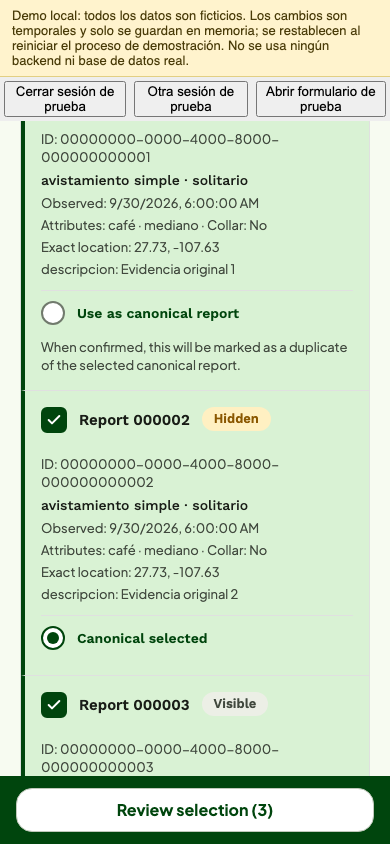
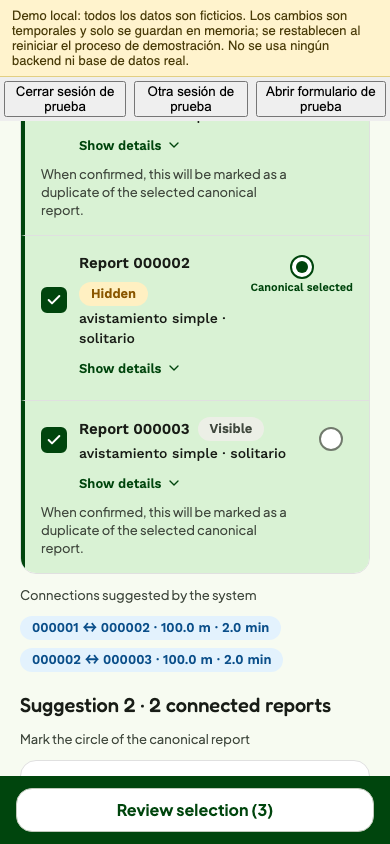
style(design): TD-134 Duplicados más compacto: filas horizontales y detalles plegados
Radio de canónico a la derecha, fecha, perro, ID y ubicación tras Ver detalles (siguen en el DOM). Llaves duplicates.canonicalLegend, showDetails y hideDetails en es y en.

Changed region(s): [[0.0308, 0.154, 0.9538, 0.9242], [0.6462, 0.2773, 0.8923, 0.3697], [0.8, 0.4929, 0.8923, 0.5545]]

diff --git a/screens/DuplicateManagementScreen.js b/screens/DuplicateManagementScreen.js
@@ -15,28 +15,38 @@ import { colors, fontFamily, layout, radius, spacing, type } from '../theme/inde
 const short=(id)=>id.slice(-6);
 /** Translates a validation error (`{key, values}`) or returns a string error as is. */
 const errorText=(error,t)=>typeof error==='string'?error:error?t(`duplicates.validation.${error.key}`,error.values):'';
-/** Candidate report as a list row with a selection checkbox and a canonical radio option. */
+/** Candidate report as a compact row: checkbox and summary on the left, canonical radio on the right, details folded. */
 function ReportRow({report,selected,canonical,disabled,onToggle,onCanonical,t,last}) {
+  const [open,setOpen]=useState(false);
   const label=t('duplicates.report',{id:short(report.id)});
-  return <View style={[styles.row,!last&&styles.rowDivider,selected&&styles.rowSelected]}>
-    <Pressable testID={`duplicate-select-${report.id}`} accessibilityRole="checkbox" accessibilityLabel={t('duplicates.select',{report:label})}
-      aria-checked={selected} accessibilityState={{checked:selected,disabled}} disabled={disabled} onPress={onToggle} style={styles.selection}>
-      <View style={[styles.box,selected&&styles.boxOn]}>{selected?<Icon name="check" size={16} color={colors.onPrimary} strokeWidth={3}/>:null}</View>
-      <Text style={styles.label}>{label}</Text>
-      <Chip label={t(`moderation.status.${report.status}`)} tone={report.status==='hidden'?'warning':'neutral'}/>
-    </Pressable>
-    <Text selectable style={styles.caption}>ID: {report.id}</Text>
-    <Text style={styles.kind}>{[report.incident_type,report.sighting_type].filter(Boolean).map((value)=>value.replaceAll('_',' ')).join(' · ')}</Text>
-    {report.client_created_at ? <Text style={styles.caption}>{t('duplicates.observed')}: {new Date(report.client_created_at).toLocaleString()}</Text> : null}
-    {report.dog ? <Text style={styles.caption}>{t('duplicates.dog')}: {[report.dog.predominant_color,report.dog.size].filter(Boolean).join(' · ')}{typeof report.dog.has_collar==='boolean'?` · ${t('duplicates.collar')}: ${t(report.dog.has_collar?'common.yes':'common.no')}`:''}</Text> : null}
-    {report.location ? <Text selectable style={styles.caption}>{t('moderation.exactLocation')}: {report.location.latitude}, {report.location.longitude}</Text> : null}
-    {report.details ? Object.entries(report.details).map(([key,value])=><Text key={key} style={styles.caption}>{key.replaceAll('_',' ')}: {typeof value==='object'?JSON.stringify(value):String(value)}</Text>) : null}
+  const summary=[report.incident_type,report.sighting_type].filter(Boolean).map((value)=>value.replaceAll('_',' ')).join(' · ');
+  return <View style={[styles.row,styles.rowFlex,!last&&styles.rowDivider,selected&&styles.rowSelected]}>
+    <View style={styles.rowMain}>
+      <Pressable testID={`duplicate-select-${report.id}`} accessibilityRole="checkbox" accessibilityLabel={t('duplicates.select',{report:label})}
+        aria-checked={selected} accessibilityState={{checked:selected,disabled}} disabled={disabled} onPress={onToggle} style={styles.selection}>
+        <View style={[styles.box,selected&&styles.boxOn]}>{selected?<Icon name="check" size={16} color={colors.onPrimary} strokeWidth={3}/>:null}</View>
+        <View style={styles.selectionText}>
+          <View style={styles.titleLine}><Text style={styles.label}>{label}</Text><Chip label={t(`moderation.status.${report.status}`)} tone={report.status==='hidden'?'warning':'neutral'}/></View>
+          {summary?<Text style={styles.kind}>{summary}</Text>:null}
+        </View>
+      </Pressable>
+      <Pressable accessibilityRole="button" accessibilityState={{expanded:open}} onPress={()=>setOpen((value)=>!value)} hitSlop={6} style={styles.detailToggle}>
+        <Text style={styles.detailToggleText}>{t(open?'duplicates.hideDetails':'duplicates.showDetails')}</Text><Icon name="down" size={16} color={colors.primary}/>
+      </Pressable>
+      <View style={[styles.details,!open&&styles.hidden]}>
+        <Text selectable style={styles.caption}>ID: {report.id}</Text>
+        {report.client_created_at?<Text style={styles.caption}>{t('duplicates.observed')}: {new Date(report.client_created_at).toLocaleString()}</Text>:null}
+        {report.dog?<Text style={styles.caption}>{t('duplicates.dog')}: {[report.dog.predominant_color,report.dog.size].filter(Boolean).join(' · ')}{typeof report.dog.has_collar==='boolean'?` · ${t('duplicates.collar')}: ${t(report.dog.has_collar?'common.yes':'common.no')}`:''}</Text>:null}
+        {report.location?<Text selectable style={styles.caption}>{t('moderation.exactLocation')}: {report.location.latitude}, {report.location.longitude}</Text>:null}
+        {report.details?Object.entries(report.details).map(([key,value])=><Text key={key} style={styles.caption}>{key.replaceAll('_',' ')}: {typeof value==='object'?JSON.stringify(value):String(value)}</Text>):null}
+      </View>
+      {selected&&!canonical?<Text style={styles.caption}>{t('duplicates.willBeDuplicate')}</Text>:null}
+    </View>
     <Pressable testID={`duplicate-canonical-${report.id}`} accessibilityRole="radio" accessibilityLabel={t('duplicates.chooseCanonical',{report:label})}
-      aria-checked={canonical} accessibilityState={{checked:canonical,disabled:disabled||!selected}} disabled={disabled||!selected} onPress={onCanonical} style={[styles.canonical,(!selected||disabled)&&styles.dim]}>
+      aria-checked={canonical} accessibilityState={{checked:canonical,disabled:disabled||!selected}} disabled={disabled||!selected} onPress={onCanonical} hitSlop={4} style={[styles.canonicalHit,(!selected||disabled)&&styles.dim]}>
       <View style={[styles.radio,canonical&&styles.radioOn]}>{canonical?<View style={styles.radioDot}/>:null}</View>
-      <Text style={styles.canonicalText}>{t(canonical?'duplicates.canonicalChosen':'duplicates.canonicalOption')}</Text>
+      {canonical?<Text style={styles.canonicalText}>{t('duplicates.canonicalChosen')}</Text>:null}
     </Pressable>
-    {selected&&!canonical ? <Text style={styles.caption}>{t('duplicates.willBeDuplicate')}</Text> : null}
   </View>;
 }
 function Note({value,onChange,label,error,disabled,t,inputRef,testID,tone}) {
@@ -116,6 +126,7 @@ export default function DuplicateManagementScreen({accessToken,onBack,api}) {
             {!form.components.length?<Text style={styles.bodyText}>{t('duplicates.empty')}</Text>:null}
             {form.components.map((component,index)=><View key={component.id} style={styles.group}>
               <Text accessibilityRole="header" style={styles.groupTitle}>{t('duplicates.component',{number:index+1,count:component.reports.length})}</Text>
+              <Text style={styles.caption}>{t('duplicates.canonicalLegend')}</Text>
               <View style={styles.list}>{component.reports.map((report,i)=><ReportRow key={report.id} report={report} selected={form.ids.includes(report.id)} canonical={form.canonicalId===report.id}
                 disabled={disabled} onToggle={()=>form.toggleReport(report.id)} onCanonical={()=>form.chooseCanonical(report.id)} t={t} last={i===component.reports.length-1}/>)}</View>
               <Text style={styles.caption}>{t('duplicates.links')}</Text>
@@ -192,9 +203,12 @@ const styles=StyleSheet.create({
   box:{width:26,height:26,borderRadius:6,borderWidth:2,borderColor:colors.outline,backgroundColor:colors.surface,alignItems:'center',justifyContent:'center'},boxOn:{backgroundColor:colors.primary,borderColor:colors.primary},
   label:{fontFamily:fontFamily.label,fontSize:15,lineHeight:22,color:colors.ink,flexShrink:1},kind:{fontFamily:fontFamily.labelMedium,fontSize:14,lineHeight:20,color:colors.ink},
   caption:{...type.caption,color:colors.inkMuted},bodyText:{...type.body,fontSize:15,lineHeight:22,color:colors.inkMuted},
-  canonical:{flexDirection:'row',alignItems:'center',gap:spacing.md,minHeight:layout.minTouch,borderTopWidth:1,borderTopColor:colors.border,marginTop:spacing.sm},
+  rowFlex:{flexDirection:'row',alignItems:'flex-start',gap:spacing.md},rowMain:{flex:1,gap:spacing.xs},selectionText:{flex:1,gap:2},titleLine:{flexDirection:'row',alignItems:'center',flexWrap:'wrap',gap:spacing.sm},
+  detailToggle:{flexDirection:'row',alignItems:'center',gap:spacing.xs,minHeight:32,alignSelf:'flex-start',marginLeft:38},detailToggleText:{fontFamily:fontFamily.label,fontSize:13,color:colors.primary},details:{marginLeft:38,gap:2},hidden:{display:'none'},
+  canonicalHit:{minWidth:layout.minTouch,minHeight:layout.minTouch,alignItems:'center',justifyContent:'center',gap:2},
+  canonicalX:{flexDirection:'row',alignItems:'center',gap:spacing.md,minHeight:layout.minTouch,borderTopWidth:1,borderTopColor:colors.border,marginTop:spacing.sm},
   radio:{width:24,height:24,borderRadius:12,borderWidth:2,borderColor:colors.outline,alignItems:'center',justifyContent:'center',backgroundColor:colors.surface},radioOn:{borderColor:colors.primary},radioDot:{width:12,height:12,borderRadius:6,backgroundColor:colors.primary},
-  canonicalText:{fontFamily:fontFamily.label,fontSize:14,color:colors.primary},dim:{opacity:0.5},pressed:{opacity:0.7},
+  canonicalText:{fontFamily:fontFamily.label,fontSize:11,color:colors.primary,textAlign:'center'},dim:{opacity:0.5},pressed:{opacity:0.7},
   links:{flexDirection:'row',flexWrap:'wrap',gap:spacing.sm},
   decision:{backgroundColor:colors.primary,borderRadius:radius.lg,padding:spacing.xl,gap:spacing.lg},
   decisionTitle:{fontFamily:fontFamily.display,fontSize:26,lineHeight:32,color:colors.onPrimary},decisionText:{...type.body,fontSize:14,lineHeight:21,color:colors.onForest},
